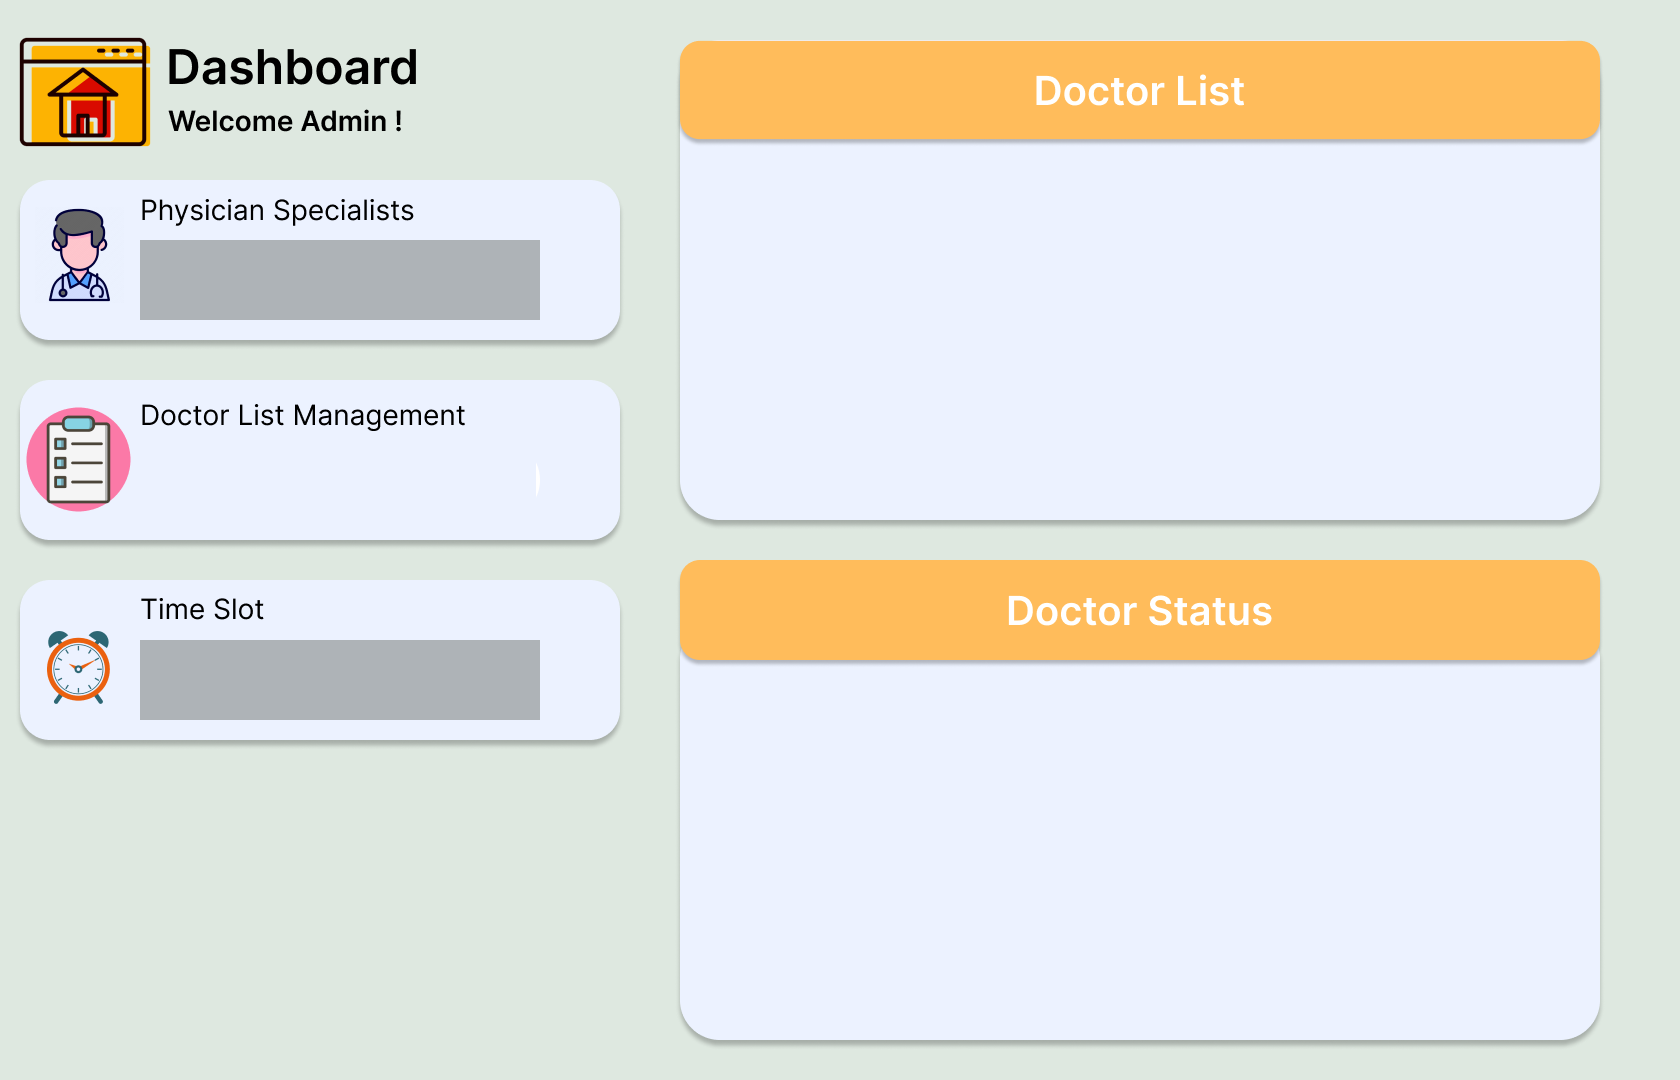
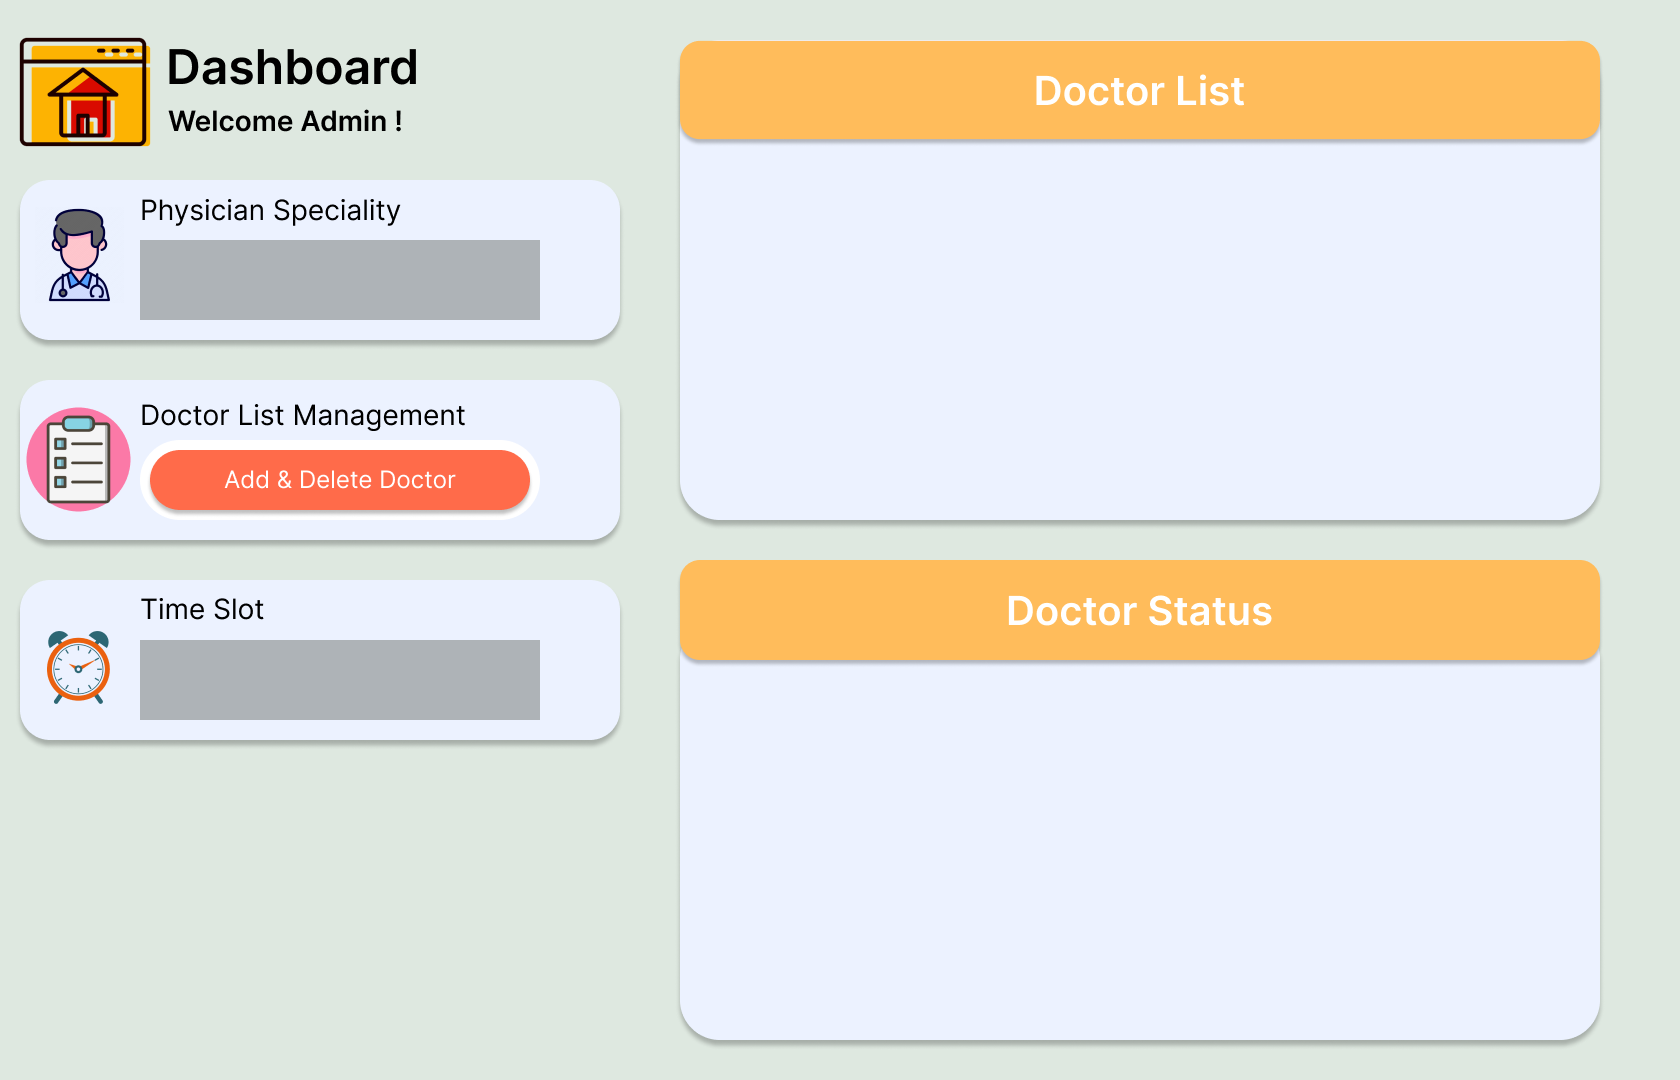
Enhance sroll button info

Changed region(s): [[0.0929, 0.3972, 0.3405, 0.4889], [0.2167, 0.1833, 0.2476, 0.2139]]

diff --git a/views/dashboard/adminDashboard.py b/views/dashboard/adminDashboard.py
@@ -42,6 +42,7 @@ class ClinicAdminDashboard(Frame):
         self.loadDoctorsAndFilterBySpeciality()
         self.loadDoctorsAndFilterByAppointment()
         self.createList()
+        self.addAnddeleteList()
 
     def loadAssets(self):
         self.pfp = self.controller.buttonCreator(
@@ -115,13 +116,13 @@ class ClinicAdminDashboard(Frame):
             self.grdRequests.loadRoleAssets(clinicAdmin=True)
 
     def createFrames(self):
-        self.ListFrame = self.controller.frameCreator(
+        self.doctorListFrame = self.controller.frameCreator(
             x=0, y=0, classname="listframe", root=self, framewidth=1680, frameheight=1080
         )
         self.unloadStackedFrames()
 
     def unloadStackedFrames(self):
-        self.ListFrame.grid_remove()
+        self.doctorListFrame.grid_remove()
 
     def createElements(self):
         self.bg = self.controller.labelCreator(
@@ -129,8 +130,8 @@ class ClinicAdminDashboard(Frame):
             x=0, y=0, classname="homepage", root=self
         )
         self.imgLabels = [
-            ("assets/Dashboard/ClinicAdminAssets/Add&DeleteList/Add&DeleteBg.png",
-             0, 0, "listimage", self.ListFrame)
+            ("assets/Dashboard/ClinicAdminAssets/Add&DeleteList/DoctorListManagement.png",
+             0, 0, "listimage", self.doctorListFrame)
         ]
         self.controller.settingsUnpacker(self.imgLabels, "label")
 
@@ -209,26 +210,26 @@ class ClinicAdminDashboard(Frame):
     def dashboardButtons(self):
         d = {
             "adminDashboard": [
-                "assets/Dashboard/ClinicAdminAssets/Add&DeleteList/Add&DeleteDoctor.png",
+                "assets/Dashboard/ClinicAdminAssets/AdminDashboard/Add&DeleteDoctor.png",
                 "assets/Appointments/ReturnButton.png",
-                "assets/Dashboard/ClinicAdminAssets/ScrollFrame/scrollrefreshbutton.png"
+                "assets/Dashboard/ClinicAdminAssets/Add&DeleteList/AddDoctor.png"
             ]
         }
         self.Listbutton = self.controller.buttonCreator(
             ipath=d["adminDashboard"][0],
             x=140, y=440, classname="listbutton", root=self,
             buttonFunction=lambda: [
-                self.ListFrame.grid(), self.ListFrame.tkraise()],
+                self.doctorListFrame.grid(), self.doctorListFrame.tkraise()],
         )
         self.Returnbutton = self.controller.buttonCreator(
             ipath=d["adminDashboard"][1],
-            x=60, y=40, classname="returnbutton", root=self.ListFrame,
-            buttonFunction=lambda: [self.ListFrame.grid_remove()],
+            x=60, y=40, classname="returnbutton", root=self.doctorListFrame,
+            buttonFunction=lambda: [self.doctorListFrame.grid_remove()],
         )
-        self.Refreshbutton = self.controller.buttonCreator(
+        self.Addbutton = self.controller.buttonCreator(
             ipath=d["adminDashboard"][2],
-            x=1400, y=140, classname="refreshbutton", root=self.ListFrame,
-            buttonFunction=lambda: [print('refresh')],
+            x=1540, y=40, classname="addbutton", root=self.doctorListFrame,
+            buttonFunction=lambda: [print('add')],
         )
 
     def createList(self):
@@ -245,7 +246,7 @@ class ClinicAdminDashboard(Frame):
         self.doctorsScrolledFrame = ScrolledFrame(
             master=self, width=920, height=h, autohide=True, bootstyle="minty-bg")
         self.doctorsScrolledFrame.place(
-            x=680, y=145, width=920, height=375
+            x=680, y=150, width=900, height=350
         )
         initialCoordinates = (20, 20)
         for doctor in doctors:
@@ -262,69 +263,80 @@ class ClinicAdminDashboard(Frame):
                 initialCoordinates[0], initialCoordinates[1] + 100
             )
 
-        exampleList = []
-        [exampleList.append("Thing " + str(i))
-         for i in range(30) if i % 2 == 0]
-        h = len(exampleList) * 120
+    def addAnddeleteList(self):
+        prisma = self.prisma
+        doctors = prisma.doctor.find_many(
+            include={
+                "user": True,
+            }
+        )
+        h = len(doctors) * 120
         if h < 650:
             h = 650
         self.ListScrolledFrame = ScrolledFrame(
-            master=self.ListFrame, width=1500, height=h, autohide=True, bootstyle="officer-bg"
+            master=self.doctorListFrame, width=1500, height=h, autohide=True, bootstyle="officer-bg"
         )
         self.ListScrolledFrame.grid_propagate(False)
         self.ListScrolledFrame.place(x=60, y=280, width=1520, height=650)
-        initialcoordinates = (20, 20)
-        for list in exampleList:
-            X = initialcoordinates[0]
-            Y = initialcoordinates[1]
-            self.controller.textElement(
-                ipath=r"assets/Dashboard/ClinicAdminAssets/ScrollFrame/scrollbutton.png", x=X, y=Y,
-                classname=f"list{list}", root=self.ListScrolledFrame,
-                text="", size=30, font=INTER,
+        COORDS = (20, 20)
+        for doctor in doctors:
+            doctor.user.fullName
+            X = COORDS[0]
+            Y = COORDS[1]
+            R = self.ListScrolledFrame
+            FONT = ("Inter", 12)
+            self.controller.labelCreator(
+                ipath="assets/Dashboard/ClinicAdminAssets/ScrollFrame/scrollbutton.png",
+                x=X, y=Y, classname=f"doctorlist{doctor.id}", root=R,
                 isPlaced=True,
             )
-    
-        d = {
-            "scrollButton": [
-                "assets/Dashboard/ClinicAdminAssets/ScrollFrame/view.png",
-                "assets/Dashboard/ClinicAdminAssets/ScrollFrame/delete.png",
-            ]
-        }
-        self.viewdoctorbutton = self.controller.buttonCreator(
-            ipath=d["scrollButton"][0],
-            x=X+1280, y=Y+30, classname=f"viewbutton{list}", root=self.ListScrolledFrame,
+
+            d = {
+                "scrollButton": [
+                    "assets/Dashboard/ClinicAdminAssets/ScrollFrame/view.png",
+                    "assets/Dashboard/ClinicAdminAssets/ScrollFrame/delete.png",
+                ]
+            }
+            self.viewdoctorbutton = self.controller.buttonCreator(
+                ipath=d["scrollButton"][0],
+                x=X+1280, y=Y+30, classname=f"viewbutton{doctor.id}", root=R,
                 buttonFunction=lambda: [print('view')],
                 isPlaced=True
-        )
-        self.deletedoctorbutton = self.controller.buttonCreator(
-            ipath=d["scrollButton"][1],
-            x=X+1360, y=Y+30, classname=f"deletebutton{list}", root=self.ListScrolledFrame,
+            )
+            self.deletedoctorbutton = self.controller.buttonCreator(
+                ipath=d["scrollButton"][1],
+                x=X+1360, y=Y+30, classname=f"deletebutton{doctor.id}", root=R,
                 buttonFunction=lambda: [print('delete')],
                 isPlaced=True
-        )
-            
-        doctorName = ScrolledText(master=self.ListScrolledFrame, width=200, height=60,
-                              autohide=True, bootstyle="bg-round" , padding=0 
-        )  
-        doctorName.text.config(
-            bg="#f1feff", font=("Inter",12), wrap=WORD, fg=BLACK
-        )
-        doctorName.text.insert(1.0, doctor.user.fullName)
-        doctorName.text.config(state=DISABLED)
-        doctorName.place(x= X+30, y=Y+30,width=200, height=60 )
-
-        doctorSpeciality = ScrolledText(master=self.ListScrolledFrame, width=200, height=60,
-                              autohide=True, bootstyle="bg-round" , padding=0 
-        )  
-        doctorSpeciality.text.config(
-            bg="#f1feff", font=("Inter",12), wrap=WORD, fg=BLACK
-        )
-        doctorSpeciality.text.insert(1.0, doctor.speciality.user.fullName)
-        doctorSpeciality.text.config(state=DISABLED)
-        doctorSpeciality.place(x= X+290, y=Y+30,width=200, height=60 )
-
-        initialcoordinates = (
-            initialcoordinates[0], initialcoordinates[1] + 120
-        )
-
-       
+            )
+            doctorName = self.controller.scrolledTextCreator(
+                x = X+50, y=Y+30, width=200, height=60, root=R, classname = f"{doctor.id}_name",
+                bg="#f1feff", hasBorder=False,
+                text=doctor.user.fullName, font=FONT, fg=BLACK,
+                isDisabled=True, isJustified="center",
+                hasVbar=False
+            )
+            doctorSpeciality = self.controller.scrolledTextCreator(
+                x=X+290, y=Y+30, width=260, height=60, root=R, classname = f"{doctor.id}_speciality",
+                bg="#f1feff", hasBorder=False,
+                text=doctor.speciality, font=FONT, fg=BLACK,
+                isDisabled=True, isJustified="center",
+                hasVbar=False                           
+            )
+            doctorUserID = self.controller.scrolledTextCreator(
+                x=X+610, y=Y+25, width=200, height=65, root=R, classname = f"{doctor.id}_userId",
+                bg="#f1feff", hasBorder=False,
+                text=doctor.userId, font=FONT, fg=BLACK,
+                isDisabled=True, isJustified="center",
+                hasVbar=False                           
+            )
+            doctorClinicID = self.controller.scrolledTextCreator(
+                x=X+880, y=Y+25, width=200, height=65, root=R, classname = f"{doctor.id}_clinicId",
+                bg="#f1feff", hasBorder=False,
+                text=doctor.clinicId, font=FONT, fg=BLACK,
+                isDisabled=True, isJustified="center",
+                hasVbar=False                           
+            )
+            COORDS = (
+                COORDS[0], COORDS[1] + 120
+            )

diff --git a/views/browseClinic/adminBrowse.py b/views/browseClinic/adminBrowse.py
@@ -30,6 +30,7 @@ class AdminBrowseClinic(Frame):
         self.prisma = self.controller.mainPrisma
         self.createFrames()
         self.createElements()
+        self.manageClinic()
 
     def createFrames(self):
         pass
@@ -46,10 +47,14 @@ class AdminBrowseClinic(Frame):
             buttonFunction=lambda:print("manage clinic requests"), isPlaced=True
         )
 
-        exampleList = []
-        [exampleList.append("Thing " + str(i))
-         for i in range(30) if i % 2 == 0]
-        h = len(exampleList) * 120
+    def manageClinic(self):
+        prisma = self.prisma
+        clinics = prisma.clinic.find_many(
+            include={
+                "name": True,
+            }
+        )
+        h = len(clinics) * 120
         if h < 640:
             h = 640
         self.manageClinicScrolledFrame = ScrolledFrame(
@@ -57,36 +62,44 @@ class AdminBrowseClinic(Frame):
         )
         self.manageClinicScrolledFrame.grid_propagate(False)
         self.manageClinicScrolledFrame.place(x=60, y=280, width=1540, height=640)
-        initialcoordinates = (20,20)
-        for manageClinic in exampleList:
-            X = initialcoordinates[0]
-            Y = initialcoordinates[1]
-            self.controller.textElement(
-                ipath=r"assets/Dashboard/ClinicAdminAssets/ScrollFrame/scrollbutton.png", x=X, y=Y,
-                classname=f"manageClinic{manageClinic}", root=self.manageClinicScrolledFrame,
-                text=manageClinic, size=30, font=INTER,
+        COORDS = (20,20)
+        for clinic in clinics:
+            clinic.name
+            X = COORDS[0]
+            Y = COORDS[1]
+            R = self.manageClinicScrolledFrame
+            FONT = ("Inter", 12)
+            self.controller.labelCreator(
+                ipath=r"assets/Dashboard/ClinicAdminAssets/ScrollFrame/scrollbutton.png", 
+                x=X, y=Y, classname=f"manageClinic{clinic.id}", root=R,
                 isPlaced=True,
             )   
         
-        d = {
-            "clinicButton": [
-                "assets/Dashboard/ClinicAdminAssets/ScrollFrame/view.png",
-                "assets/Dashboard/ClinicAdminAssets/ScrollFrame/delete.png",
-            ]
-        }
-        self.viewClinicbutton = self.controller.buttonCreator(
-            ipath=d["clinicButton"][0],
-            x=X+1280, y=Y+30, classname=f"viewbutton{manageClinic}", root=self.manageClinicScrolledFrame,
+            d = {
+                "clinicButton": [
+                    "assets/Dashboard/ClinicAdminAssets/ScrollFrame/view.png",
+                    "assets/Dashboard/ClinicAdminAssets/ScrollFrame/delete.png",
+                ]
+            }
+            self.viewClinicbutton = self.controller.buttonCreator(
+                ipath=d["clinicButton"][0],
+                x=X+1280, y=Y+30, classname=f"viewclinic{clinic.id}", root=R,
                 buttonFunction=lambda: [print('clinicview')],
                 isPlaced=True
-        )
-        self.deleteClinicbutton = self.controller.buttonCreator(
-            ipath=d["clinicButton"][1],
-            x=X+1360, y=Y+30, classname=f"deletebutton{manageClinic}", root=self.manageClinicScrolledFrame,
+            )
+            self.deleteClinicbutton = self.controller.buttonCreator(
+                ipath=d["clinicButton"][1],
+                x=X+1360, y=Y+30, classname=f"deleteclinic{clinic.id}", root=R,
                 buttonFunction=lambda: [print('clinicdelete')],
                 isPlaced=True
-        )
-        
-        initialcoordinates = (
-                initialcoordinates[0], initialcoordinates[1] + 120
+            )
+            clinicName = self.controller.scrolledTextCreator(
+                x = X+50, y=Y+30, width=200, height=60, root=R, classname = f"{clinic.id}_name",
+                bg="#f1feff", hasBorder=False,
+                text=clinic.name, font=FONT, fg=BLACK,
+                isDisabled=True, isJustified="center",
+                hasVbar=False
+            )
+            COORDS = (
+                COORDS[0], COORDS[1] + 120
             )

diff --git a/views/patientRequests/adminManageRequests.py b/views/patientRequests/adminManageRequests.py
@@ -51,7 +51,7 @@ class AdminManagePatientRequests(Frame):
             master=self, width=1500, height=h, autohide=True, bootstyle="officer-bg"
         )
         self.viewAppointmentScrolledFrame.grid_propagate(False)
-        self.viewAppointmentScrolledFrame.place(x=60, y=240, width=1500, height=280)
+        self.viewAppointmentScrolledFrame.place(x=60, y=240, width=1540, height=290)
         initialcoordinates = (20,20)
         for request in exampleList:
             X = initialcoordinates[0]
@@ -88,12 +88,12 @@ class AdminManagePatientRequests(Frame):
         
     def createPatientList(self):
         prisma = self.prisma
-        patientLists = prisma.patient.find_many(
+        patients = prisma.patient.find_many(
             include={
                 "user": True,
             }
         )
-        h = len(patientLists) * 120
+        h = len(patients) * 120
         if h < 290:
             h = 290
         self.patientScrolledFrame = ScrolledFrame(
@@ -101,19 +101,40 @@ class AdminManagePatientRequests(Frame):
         )
         self.patientScrolledFrame.grid_propagate(False)
         self.patientScrolledFrame.place(x=60, y=710, width=1540, height=290)
-        initialcoordinates = (20,20)
-        for patient in patientLists:
-            x = initialcoordinates[0]
-            y = initialcoordinates[1]
-            self.controller.textElement(
-                ipath="assets/Dashboard/ClinicAdminAssets/ScrollFrame/scrollbutton.png", x=x, y=y,
-                classname=f"patientlistbg{patient.id}", root=self.patientScrolledFrame,
-                text=f"{patient.user.fullName}", size=30, font=INTER,
-                isPlaced=True,
-                buttonFunction=lambda: [print(patient)]
+        COORDS = (20,20)
+        for patient in patients:
+            patient.user.fullName
+            X = COORDS[0]
+            Y = COORDS[1]
+            R = self.patientScrolledFrame
+            FONT = ("Inter", 12)
+            self.controller.labelCreator(
+                ipath="assets/Dashboard/ClinicAdminAssets/ScrollFrame/scrollbutton.png", 
+                x=X, y=Y, classname=f"patientlist{patient.id}", root=R,
+                isPlaced=True,  
             )
-
-            initialcoordinates = (
-                initialcoordinates[0], initialcoordinates[1] + 120
+            patientName = self.controller.scrolledTextCreator(
+                x = X+50, y=Y+35, width=200, height=60, root=R, classname = f"{patient.id}_name",
+                bg="#f1feff", hasBorder=False,
+                text=patient.user.fullName, font=FONT, fg=BLACK,
+                isDisabled=True, isJustified="center",
+                hasVbar=False
+            )
+            patientUserID = self.controller.scrolledTextCreator(
+                x=X+300, y=Y+35, width=200, height=65, root=R, classname = f"{patient.id}_userId",
+                bg="#f1feff", hasBorder=False,
+                text=patient.userId, font=FONT, fg=BLACK,
+                isDisabled=True, isJustified="center",
+                hasVbar=False                           
+            )
+            patientHealthRecord = self.controller.scrolledTextCreator(
+                x=X+580, y=Y+25, width=200, height=60, root=R, classname = f"{patient.id}_healthRecord",
+                bg="#f1feff", hasBorder=False,
+                text=patient.healthRecord, font=FONT, fg=BLACK,
+                isDisabled=True, isJustified="center",
+                hasVbar=False                           
+            )
+            COORDS = (
+                COORDS[0], COORDS[1] + 120
             )
             
